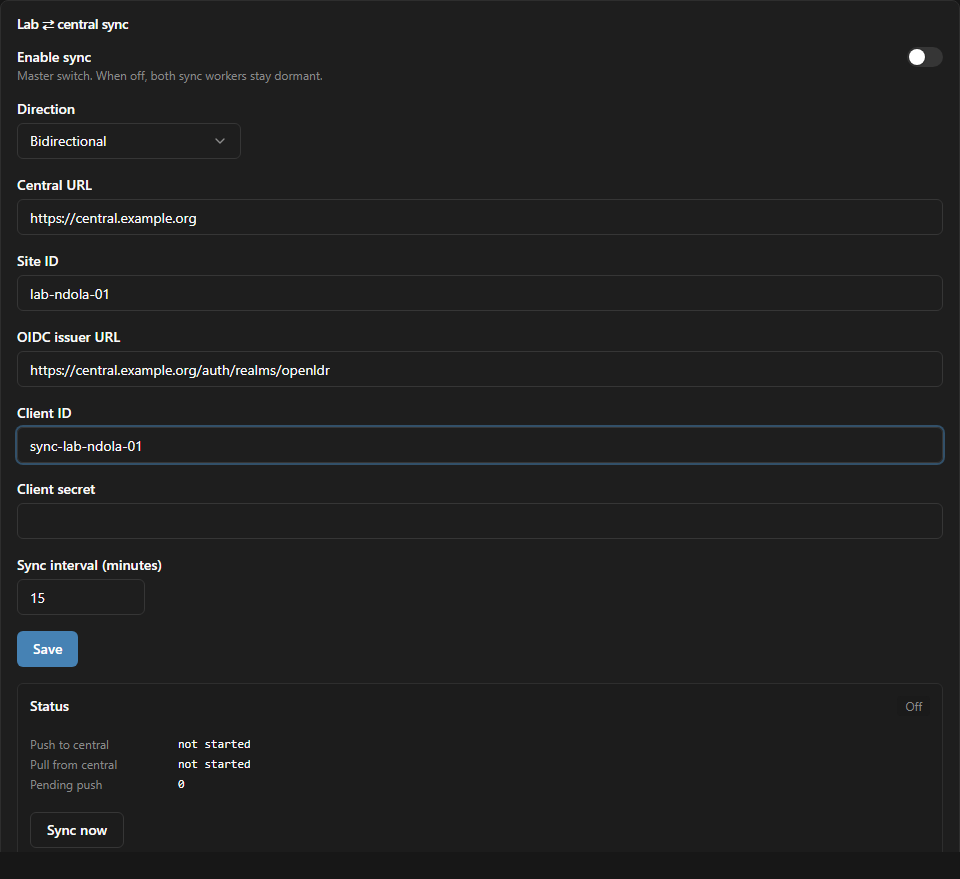
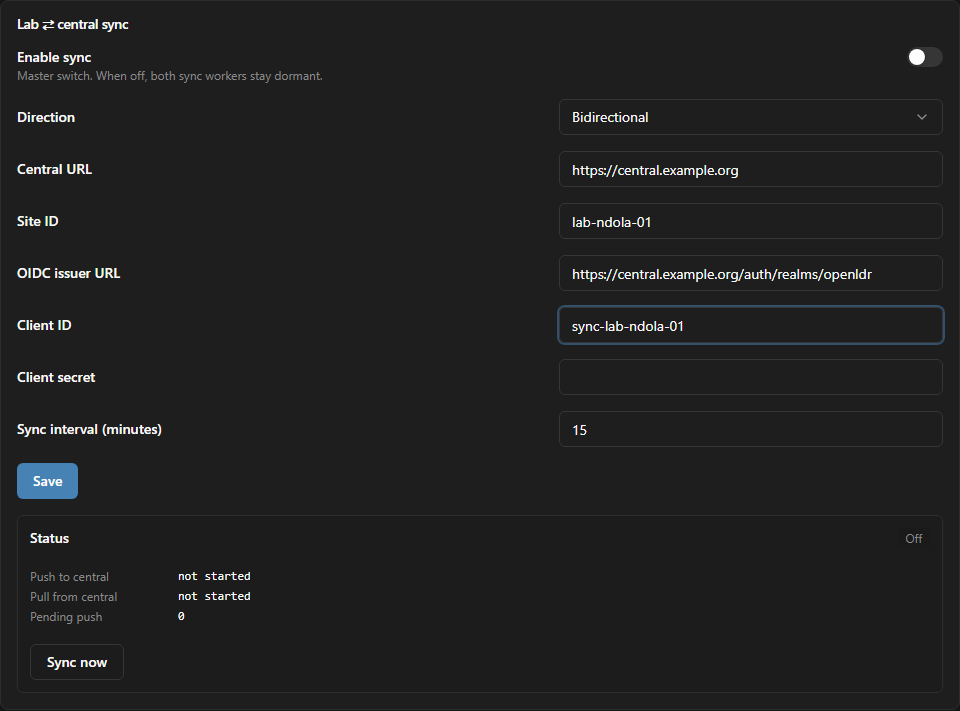
fix(settings): lay out the sync card fields side-by-side
The Distributed Sync card stacked each label on top of a full-width input,
unlike every other General card (Feature Flags, Limits & tuning, Danger
Zone), which put the label on the left and the control right-aligned. Match
that pattern: label left, a uniform-width right-aligned control column for
Direction, Central URL, Site ID, OIDC issuer, Client ID, Client secret, and
Sync interval. Preserve accessibility with an aria-label per control (the
wrapping <label> is gone). Regenerate the sync-settings-card screenshot.

diff --git a/apps/studio/src/pages/settings/General.tsx b/apps/studio/src/pages/settings/General.tsx
@@ -256,10 +256,10 @@ export function General() {
               aria-label={t('settings.general.sync.enabled.label')}
             />
           </div>
-          <label className="flex flex-col gap-1 text-sm">
-            <span className="font-medium">{t('settings.general.sync.mode.label')}</span>
+          <div className="flex items-center justify-between gap-4">
+            <div className="text-sm font-medium">{t('settings.general.sync.mode.label')}</div>
             <Select value={sync.mode} onValueChange={(v) => setSync({ ...sync, mode: v as SyncMode })}>
-              <SelectTrigger className="w-56" aria-label={t('settings.general.sync.mode.label')}>
+              <SelectTrigger className="w-96 shrink-0" aria-label={t('settings.general.sync.mode.label')}>
                 <SelectValue />
               </SelectTrigger>
               <SelectContent>
@@ -268,58 +268,69 @@ export function General() {
                 ))}
               </SelectContent>
             </Select>
-          </label>
-          <label className="flex flex-col gap-1 text-sm">
-            <span className="font-medium">{t('settings.general.sync.centralUrl.label')}</span>
+          </div>
+          <div className="flex items-center justify-between gap-4">
+            <div className="text-sm font-medium">{t('settings.general.sync.centralUrl.label')}</div>
             <Input
+              className="w-96 shrink-0"
               value={sync.centralUrl}
               placeholder="https://central.example.org"
               onChange={(e) => setSync({ ...sync, centralUrl: e.target.value })}
+              aria-label={t('settings.general.sync.centralUrl.label')}
             />
-          </label>
-          <label className="flex flex-col gap-1 text-sm">
-            <span className="font-medium">{t('settings.general.sync.siteId.label')}</span>
+          </div>
+          <div className="flex items-center justify-between gap-4">
+            <div className="text-sm font-medium">{t('settings.general.sync.siteId.label')}</div>
             <Input
+              className="w-96 shrink-0"
               value={sync.siteId}
               placeholder="lab-ndola-01"
               onChange={(e) => setSync({ ...sync, siteId: e.target.value })}
+              aria-label={t('settings.general.sync.siteId.label')}
             />
-          </label>
-          <label className="flex flex-col gap-1 text-sm">
-            <span className="font-medium">{t('settings.general.sync.oidcIssuer.label')}</span>
+          </div>
+          <div className="flex items-center justify-between gap-4">
+            <div className="text-sm font-medium">{t('settings.general.sync.oidcIssuer.label')}</div>
             <Input
+              className="w-96 shrink-0"
               value={sync.oidcIssuer}
               placeholder="https://central.example.org/auth/realms/openldr"
               onChange={(e) => setSync({ ...sync, oidcIssuer: e.target.value })}
+              aria-label={t('settings.general.sync.oidcIssuer.label')}
             />
-          </label>
-          <label className="flex flex-col gap-1 text-sm">
-            <span className="font-medium">{t('settings.general.sync.clientId.label')}</span>
+          </div>
+          <div className="flex items-center justify-between gap-4">
+            <div className="text-sm font-medium">{t('settings.general.sync.clientId.label')}</div>
             <Input
+              className="w-96 shrink-0"
               value={sync.clientId}
               placeholder="sync-lab-ndola-01"
               onChange={(e) => setSync({ ...sync, clientId: e.target.value })}
+              aria-label={t('settings.general.sync.clientId.label')}
             />
-          </label>
-          <label className="flex flex-col gap-1 text-sm">
-            <span className="font-medium">{t('settings.general.sync.clientSecret.label')}</span>
+          </div>
+          <div className="flex items-center justify-between gap-4">
+            <div className="text-sm font-medium">{t('settings.general.sync.clientSecret.label')}</div>
             <Input
               type="password"
+              className="w-96 shrink-0"
               value={secretInput}
               placeholder={sync.clientSecretSet ? t('settings.general.sync.clientSecretSet') : ''}
               onChange={(e) => setSecretInput(e.target.value)}
+              aria-label={t('settings.general.sync.clientSecret.label')}
             />
-          </label>
-          <label className="flex flex-col gap-1 text-sm">
-            <span className="font-medium">{t('settings.general.sync.intervalMinutes.label')}</span>
+          </div>
+          <div className="flex items-center justify-between gap-4">
+            <div className="text-sm font-medium">{t('settings.general.sync.intervalMinutes.label')}</div>
             <Input
               type="number"
               min={1}
-              className="w-32"
+              className="w-96 shrink-0"
               value={sync.intervalMinutes}
               onChange={(e) => setSync({ ...sync, intervalMinutes: Number(e.target.value) })}
+              aria-label={t('settings.general.sync.intervalMinutes.label')}
             />
-          </label>
+          </div>
           <div>
             <Button onClick={() => void saveSync()} disabled={syncSaving}>
               {t('settings.general.sync.save')}